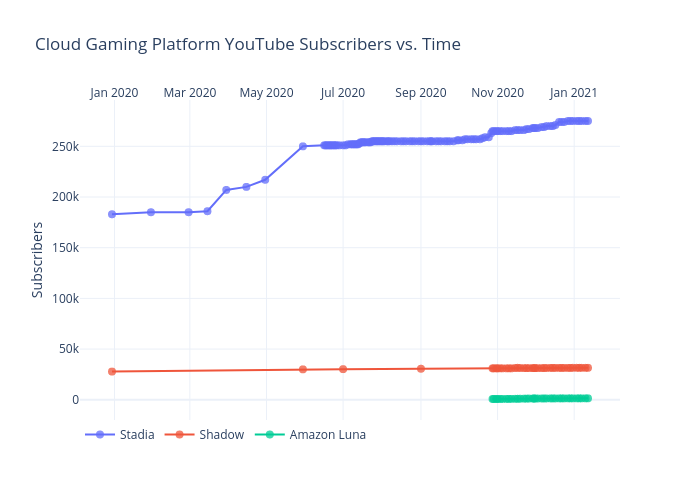
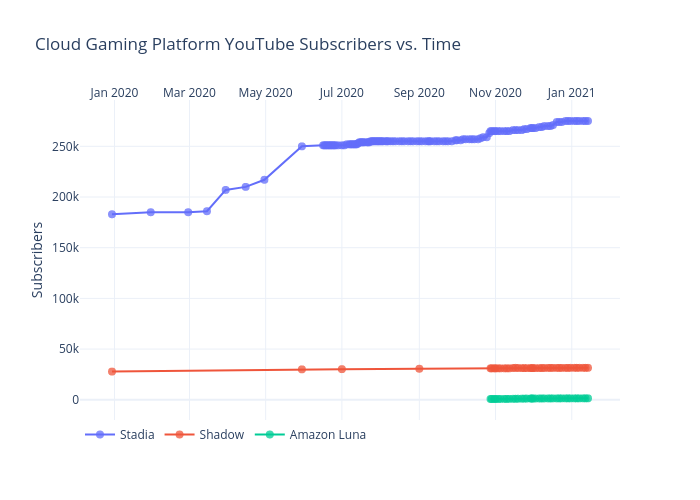
Add files via upload

diff --git a/youtube_platforms/figure.js b/youtube_platforms/figure.js
@@ -281,6 +281,7 @@ var figure = {
                 "275000",
                 "275000",
                 "275000",
+                "275000",
                 "275000"
             ],
             "marker": {
@@ -567,6 +568,7 @@ var figure = {
                 "31400",
                 "31400",
                 "31400",
+                "31500",
                 "31500",
                 "31500",
                 "31500",
@@ -863,7 +865,8 @@ var figure = {
                 "1370",
                 "1370",
                 "1390",
-                "1400"
+                "1400",
+                "1410"
             ],
             "marker": {
                 "size": 8,
@@ -882,8 +885,8 @@ var figure = {
             "side": "top",
             "type": "date",
             "range": [
-                "2019-12-06 13:35:56.7476",
-                "2021-02-04 10:24:03.2524"
+                "2019-12-06 10:37:52.6143",
+                "2021-02-06 13:22:07.3857"
             ],
             "title": {
                 "text": ""
